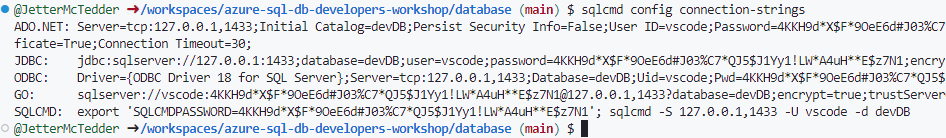
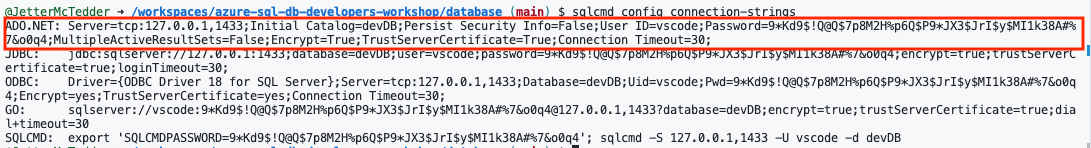
ch2

diff --git a/docs/2-Database-tasks.md b/docs/2-Database-tasks.md
@@ -74,7 +74,7 @@ The SQL Database Projects extension is an Azure Data Studio and Visual Studio Co
 
     ![A picture of getting the database connection information with sqlcmd](./media/ch2/database5.png)
 
-    Take note of the user (vscode) and the password that follows.
+    Take note of the ADO.NET connection string. This will be used in the following steps.
 
 1. Using the extensions panel, select the **SQL Server connections extension**.
 
@@ -84,39 +84,19 @@ The SQL Database Projects extension is an Azure Data Studio and Visual Studio Co
 
     ![A picture of creating a new connection by clicking either the Add Connection label or the plus sign on the upper right in the extension](./media/ch2/database7.png)
 
-1. Use the following values for the **Create Connection dialog** boxes:
+1. Copy the **ADO.NET connection string**
 
-    * Use “localhost” as the server name, then press Enter.
+    ![A picture of copying the ADO.NET database connection information](./media/ch2/database7a.png)
 
-        ![A picture of using localhost as the server name](./media/ch2/database8.png)
+    and paste it into the **Create Connection dialog** box:
 
-    * Use “devDB” as the database name, then press Enter.
+   ![A picture of pasting the ADO.NET database connection information into the Create Connection dialog box](./media/ch2/database7b.png)
 
-        ![A picture of using devDB as the database name](./media/ch2/database9.png)
+1. Provide the profile name of "Local Database" in the last dialog box for this step. Press Enter to finish the connection profile process.
 
-    * In the Authentication Type dialog box, select “SQL Login“.
+    ![A picture of using Local Database as the connection profile name](./media/ch2/database14.png)
 
-        ![A picture of using SQL Login as as the Authentication Type](./media/ch2/database10.png)
-
-    * Here is where it is best to refer back to the command “sqlcmd config connection-strings” to find the username and password. Run it again at the terminal to get the values if needed.
-
-        In the User name (SQL Login) dialog box, enter the user from the connect strings. It should be vscode, then press Enter.
-
-        ![A picture of entering vscode as the database user](./media/ch2/database11.png)
-
-        and provide the password from the connect strings in the Password (SQL Login) dialog box, then press Enter.
-
-        ![A picture of entering the password for the database user](./media/ch2/database12.png)
-
-    * Select “Yes” so that the password is saved (encrypted) on the connection profile
-
-        ![A picture of selecting Yes so that the password is saved on the connection profile](./media/ch2/database13.png)
-
-    * Provide the profile name of "Local Database" in the last dialog box for this step. Press Enter to finish the connection profile process.
-
-        ![A picture of using Local Database as the connection profile name](./media/ch2/database14.png)
-
-    * After pressing Enter and the connection profile is verified, a warning box will appear on the lower right of the screen. This warning is indicating that due to new security features within the database, you need to enable the self-signed certificate.
+    * After pressing Enter and the connection profile is verified, a warning box **MAY** will appear on the lower right of the screen. This warning is indicating that due to new security features within the database, you need to enable the self-signed certificate.
 
         Click the Enable Trust Server Certificate green button to continue.
 
